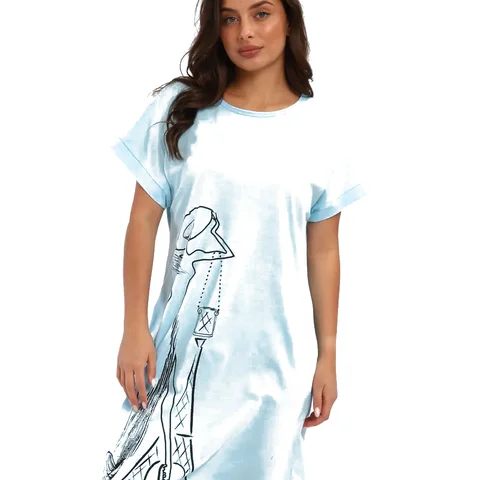
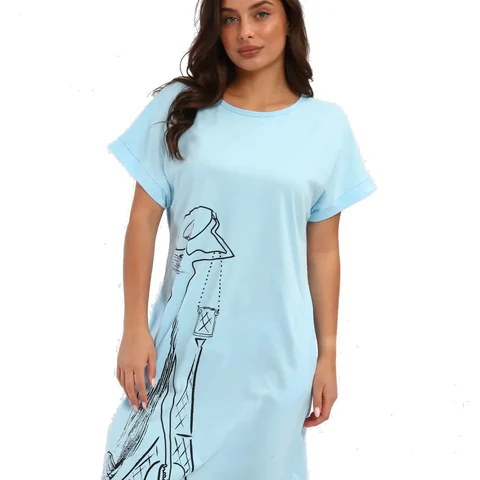
Site: sizes 42-72, opt from 5000, FAQ spacing, M-120G photo, PDF

Changed region(s): [[0.1875, 0.1875, 0.7812, 1.0]]

diff --git a/src/components/SeoFaq.tsx b/src/components/SeoFaq.tsx
@@ -2,7 +2,7 @@ export function SeoFaq() {
   const items = [
     {
       q: "Как купить женский трикотаж оптом у Эславии?",
-      a: "Оставьте заявку на оптовый прайс на сайте или напишите на Eslaviya.37@yandex.ru / в WhatsApp и Telegram по телефону +7 (901) 694-01-48. Пришлём актуальный прайс, подскажем по моделям и размерам. Самовывоз — в Иванове и Кохме; доставка по России — транспортными компаниями.",
+      a: "Оставьте заявку на оптовый прайс на сайте или напишите на Eslaviya.37@yandex.ru / в WhatsApp и Telegram по телефону +7 (901) 694-01-48. Пришлём актуальный прайс, подскажем по моделям и размерам. Самовывоз — в Иванове и Кохме; доставка по России — транспортными компаниями. Оптовая скидка — при сумме заказа от 5 000 ₽.",
     },
     {
       q: "Чем опт отличается от розницы?",
@@ -18,7 +18,7 @@ export function SeoFaq() {
     },
     {
       q: "Какие размеры есть в каталоге?",
-      a: "Широкий ряд от 42 до 70 — в том числе большие размеры. На карточке каждой модели указаны доступные размеры; в разделе «Размеры» есть таблица замеров, чтобы подобрать посадку без примерки.",
+      a: "Широкий размерный ряд бренда — от 42 до 72, в том числе большие размеры. На карточке каждой модели указаны доступные размеры именно этой модели; в разделе «Размеры» есть таблица замеров.",
     },
     {
       q: "Какой ассортимент женского трикотажа у Эславии?",
@@ -30,7 +30,7 @@ export function SeoFaq() {
     },
     {
       q: "Как получить оптовый прайс-лист PDF?",
-      a: "Заполните короткую форму «Получить оптовый прайс» на сайте — после заявки откроется скачивание PDF. Можно также написать на Eslaviya.37@yandex.ru или в мессенджер: пришлём тот же прайс и ответим на вопросы по наличию.",
+      a: "Заполните короткую форму «Получить оптовый прайс» на сайте — после заявки откроется скачивание PDF. Можно также написать на Eslaviya.37@yandex.ru или в мессенджер: пришлём тот же прайс и ответим на вопросы по наличию. Опт — от 5 000 ₽.",
     },
     {
       q: "Как оплатить заказ?",
@@ -43,8 +43,8 @@ export function SeoFaq() {
       <div className="container">
         <p className="eyebrow">Вопросы и ответы</p>
         <h2 className="section-title">Частые вопросы об опте, рознице и доставке</h2>
-        <p className="section-lead" style={{ marginTop: "-8px", marginBottom: "28px", maxWidth: "42rem", color: "var(--muted)" }}>
-          Коротко о том, как заказать женский трикотаж Эславия, где забрать и чем опт отличается от розницы.
+        <p className="section-lead" style={{ marginTop: "12px", marginBottom: "28px", maxWidth: "42rem" }}>
+          Коротко о том, как заказать женский трикотаж Эславия, где забрать и чем опт отличается от розницы. Оптовая скидка — от 5 000 ₽.
         </p>
         <div className="faq-list">
           {items.map((item) => (

diff --git a/index.html b/index.html
@@ -1,7 +1,6 @@
 <!doctype html>
 <html lang="ru">
   <head>
-    <meta name="deploy-stamp" content="faq-20260905222425" />
     <meta charset="UTF-8" />
     <meta name="deploy" content="2026-09-05-zoom-v2" />
     <meta name="viewport" content="width=device-width, initial-scale=1, viewport-fit=cover" />
@@ -101,7 +100,7 @@
           "name": "Как купить женский трикотаж оптом у Эславии?",
           "acceptedAnswer": {
             "@type": "Answer",
-            "text": "Оставьте заявку на оптовый прайс на сайте или напишите на Eslaviya.37@yandex.ru / в WhatsApp и Telegram по телефону +7 (901) 694-01-48. Пришлём актуальный прайс, подскажем по моделям и размерам. Самовывоз — в Иванове и Кохме; доставка по России — транспортными компаниями."
+            "text": "Оставьте заявку на оптовый прайс на сайте или напишите на Eslaviya.37@yandex.ru / в WhatsApp и Telegram по телефону +7 (901) 694-01-48. Пришлём актуальный прайс, подскажем по моделям и размерам. Самовывоз — в Иванове и Кохме; доставка по России — транспортными компаниями. Оптовая скидка — при сумме заказа от 5 000 ₽."
           }
         },
         {
@@ -133,7 +132,7 @@
           "name": "Какие размеры есть в каталоге?",
           "acceptedAnswer": {
             "@type": "Answer",
-            "text": "Широкий ряд от 42 до 70 — в том числе большие размеры. На карточке каждой модели указаны доступные размеры; в разделе «Размеры» есть таблица замеров, чтобы подобрать посадку без примерки."
+            "text": "Широкий размерный ряд бренда — от 42 до 72, в том числе большие размеры. На карточке каждой модели указаны доступные размеры именно этой модели; в разделе «Размеры» есть таблица замеров."
           }
         },
         {
@@ -157,7 +156,7 @@
           "name": "Как получить оптовый прайс-лист PDF?",
           "acceptedAnswer": {
             "@type": "Answer",
-            "text": "Заполните короткую форму «Получить оптовый прайс» на сайте — после заявки откроется скачивание PDF. Можно также написать на Eslaviya.37@yandex.ru или в мессенджер: пришлём тот же прайс и ответим на вопросы по наличию."
+            "text": "Заполните короткую форму «Получить оптовый прайс» на сайте — после заявки откроется скачивание PDF. Можно также написать на Eslaviya.37@yandex.ru или в мессенджер: пришлём тот же прайс и ответим на вопросы по наличию. Опт — от 5 000 ₽."
           }
         },
         {

diff --git a/src/components/Wholesale.tsx b/src/components/Wholesale.tsx
@@ -46,7 +46,7 @@ export function Wholesale() {
           <div>
             <p className="eyebrow">Для оптовиков</p>
             <h2 className="section-title">Покупаете одежду оптом?</h2>
-            <p className="section-lead">Получите актуальный оптовый прайс и информацию для заказа. Скидки при сумме заказа от 5000 ₽.</p>
+            <p className="section-lead">Получите актуальный оптовый прайс и информацию для заказа. Скидки при сумме заказа от 5 000 ₽.</p>
           </div>
           {ok ? (
             <div className="success-box" role="status" aria-live="polite">

diff --git a/src/components/Hero.tsx b/src/components/Hero.tsx
@@ -11,7 +11,7 @@ export function Hero({ photo }: { photo?: Product }) {
             Комфорт натуральных тканей <em>на каждый день</em>
           </h1>
           <p className="hero-lead">
-            Одежда для дома и отдыха, широкий размерный ряд от 42 до 70. Смотрите каталог или запросите оптовый прайс.
+            Одежда для дома и отдыха, широкий размерный ряд от 42 до 72. Смотрите каталог или запросите оптовый прайс.
           </p>
           <div className="hero-actions">
             <a className="btn btn-primary" href="#catalog">

diff --git a/src/components/FactsBar.tsx b/src/components/FactsBar.tsx
@@ -1,7 +1,7 @@
 const items = [
-  { title: "Опт и розница", text: "Каталог моделей и оптовый прайс" },
+  { title: "Опт от 5 000 ₽", text: "Каталог и оптовый прайс по заявке" },
   { title: "Натуральные ткани", text: "Хлопок и домашний трикотаж" },
-  { title: "Размеры 42–70", text: "Широкий ряд, в том числе большие" },
+  { title: "Размеры 42–72", text: "Широкий ряд, в том числе большие" },
   { title: "Самовывоз", text: "Иваново и Кохма" },
 ];
 
